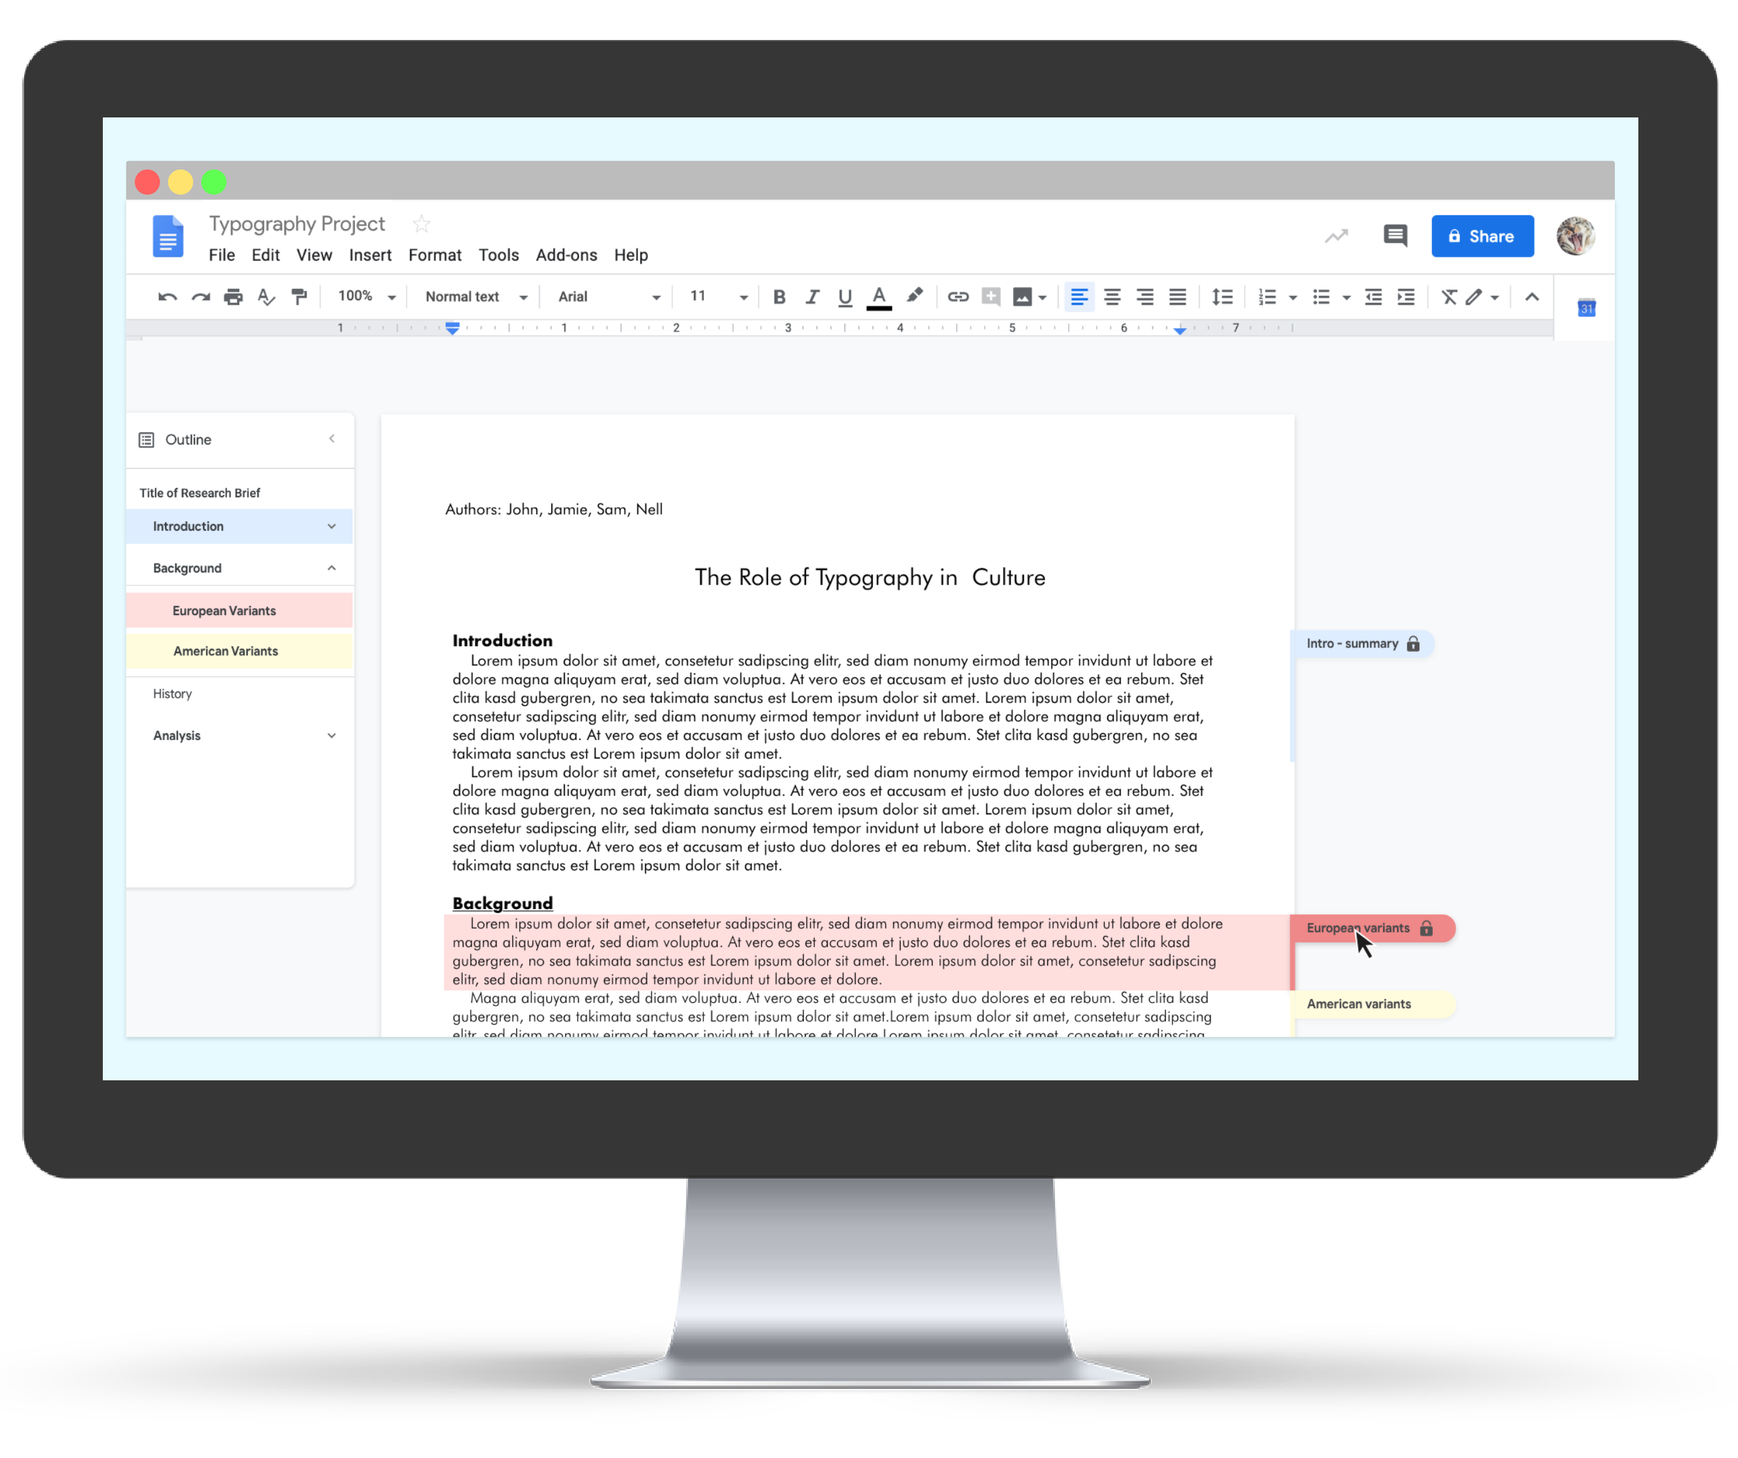
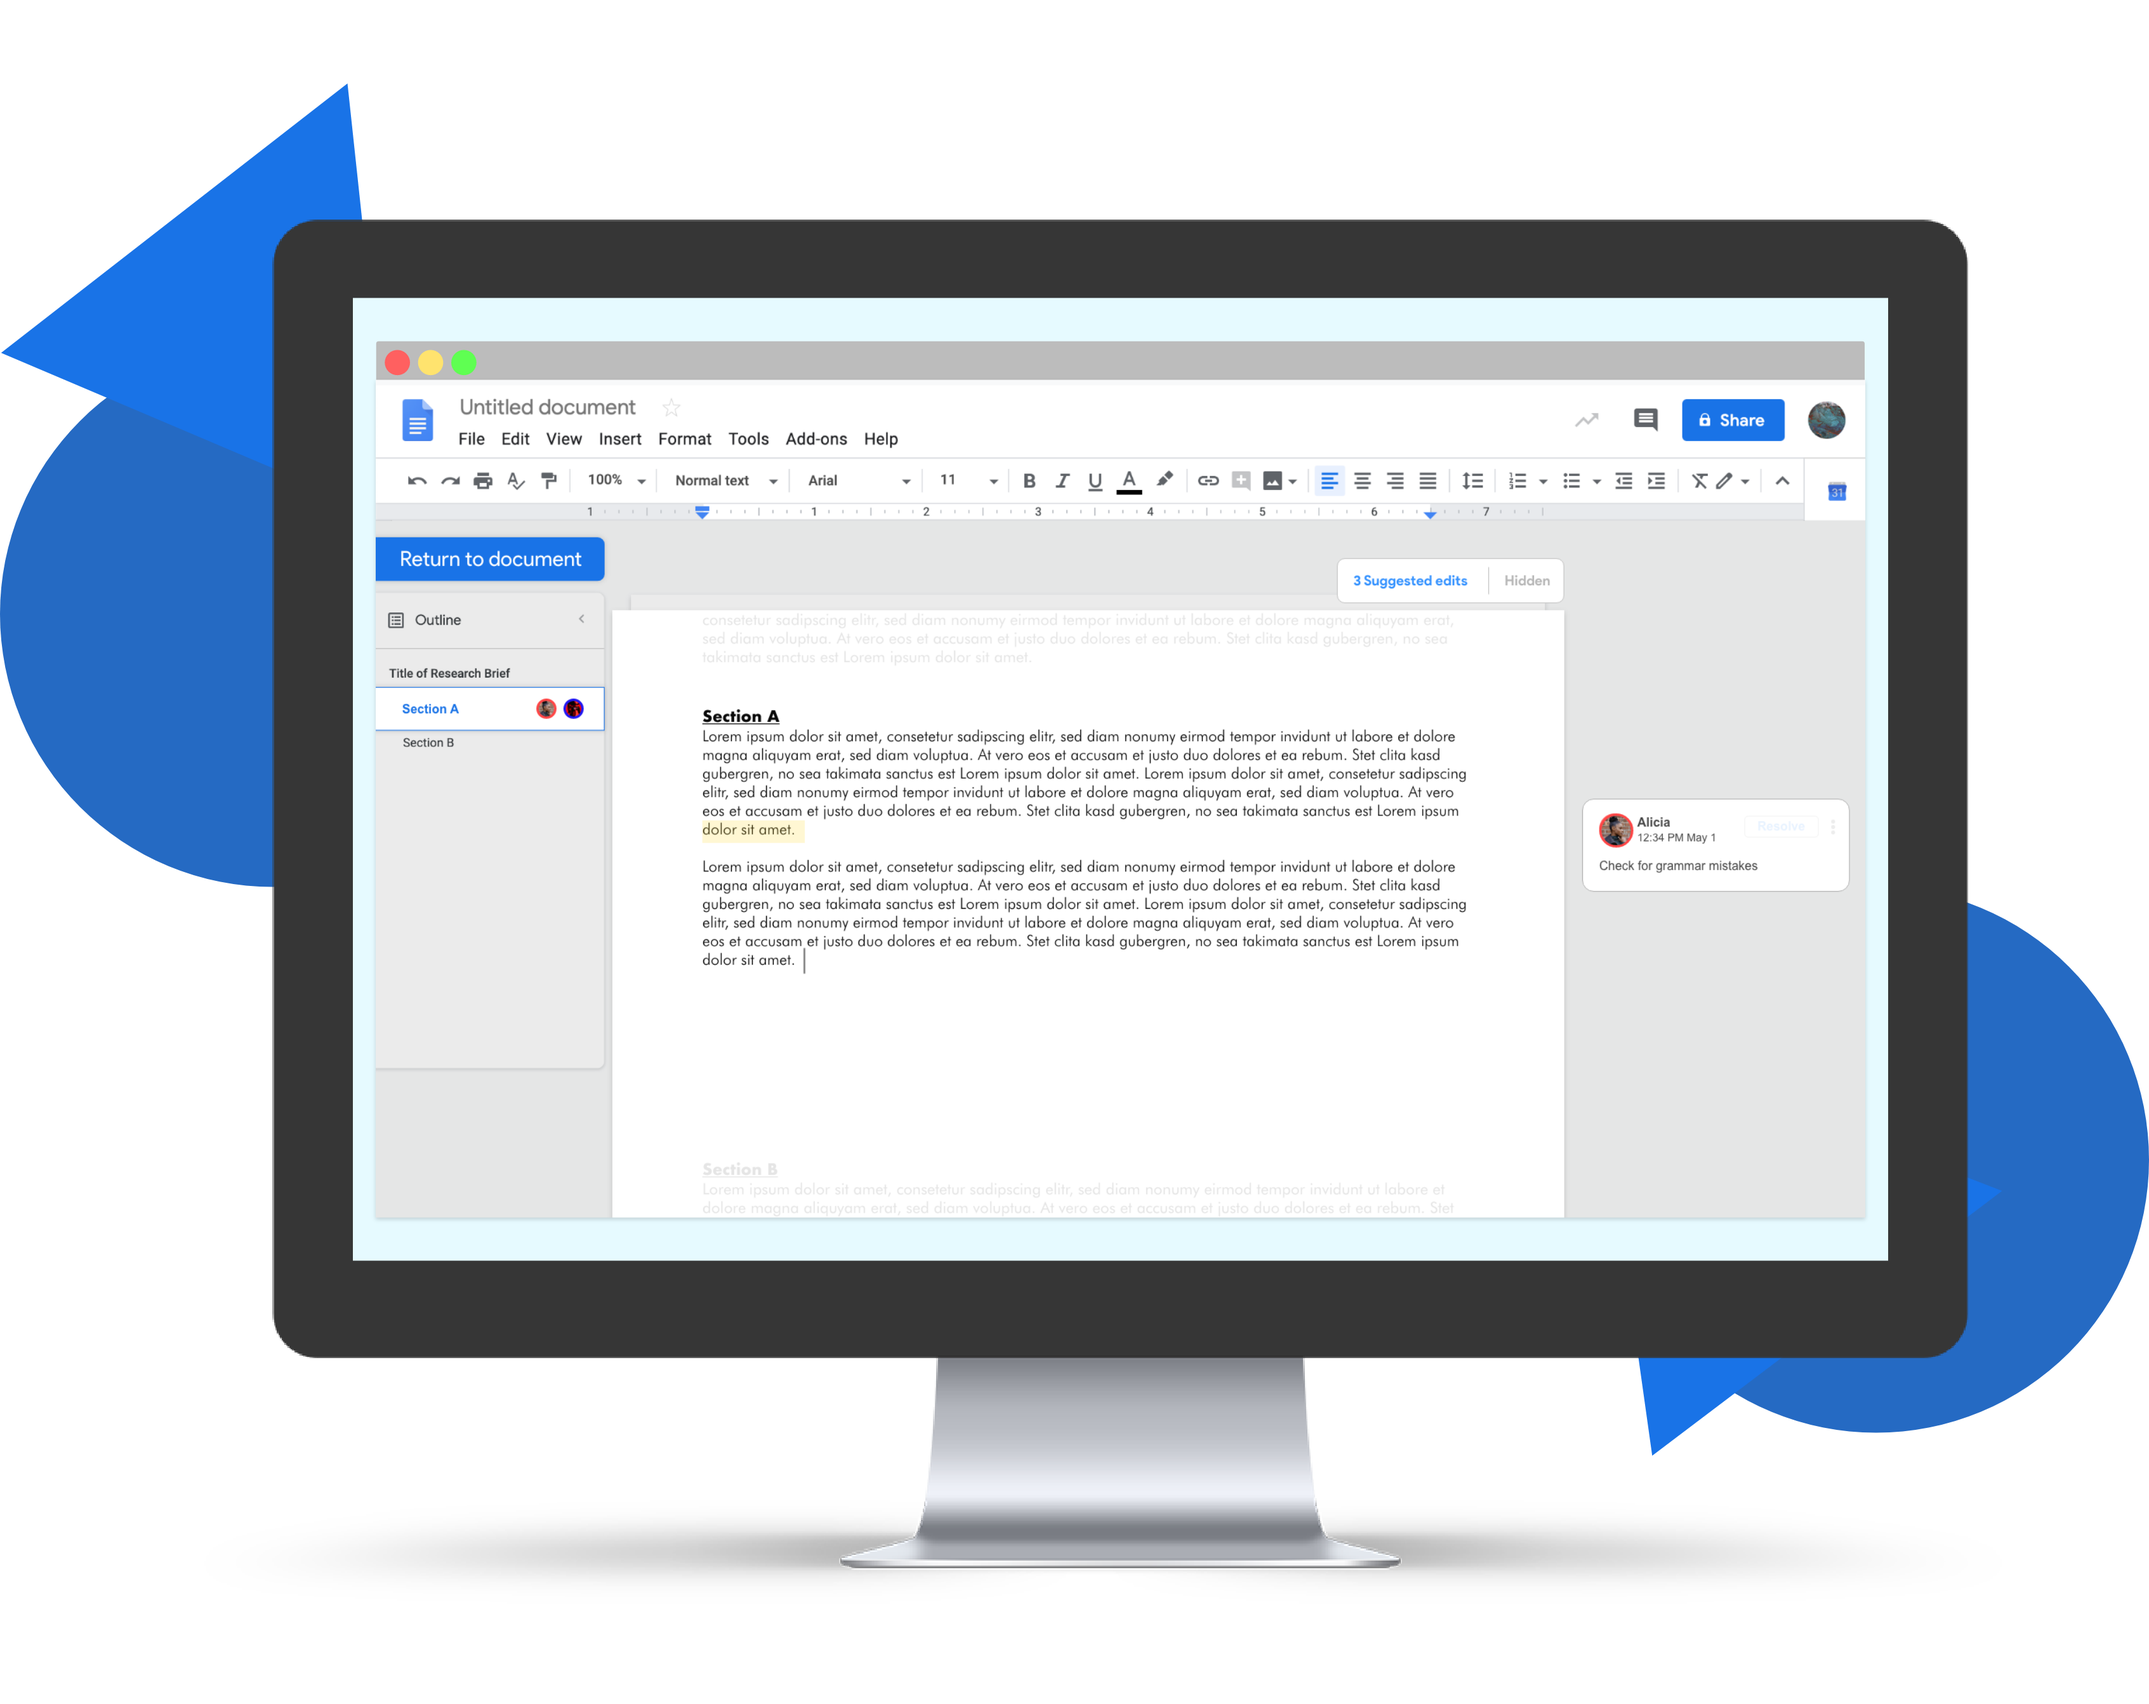
GOOGLE DOCS FINISHED!!!!

diff --git a/googledocs.html b/googledocs.html
@@ -128,62 +128,57 @@
 			<div class="row text-center">
         <div class="portfolio-text section-padding-small">
           <h5>Problem</h5>
-          <h2 style="font-weight: bold;">Apartment dogs need to socialize</h2>
+          <h2 style="font-weight: bold;">Working together is frustrating</h2>
           <p>
-      Owning a dog in the city is difficult,
-      so a communal dog run is a lifesaver for owners with energetic pups.
-      However, owners must time their visits accurately to enjoy the full benefits of the run.
-      Owners often end up waiting alone for other dogs to show up or
-      must hustle away when a dog in heat shows up.<br>
+      Google Documents is a staple in collaborative document writing.
+      Despite its many functions for version control, people are still struggling
+      to work effectively with others on a single document.<br>
     </p>
     <div class="portfolio-two-row  fade">
-      <img src="portfolio-pages/rundown/feature1a.gif" alt="dog run" width="40%"/>
-      <div><p> text info text text</p></div>
+      <img src="portfolio-pages/googledocs/graphic0.png" alt="intro" width="80%"/>
     </div>
   </div>
 
   <!--text chunk-->
   <div class="portfolio-text section-padding-small">
     <h5>Goal</h5>
-    <h2 style="font-weight: bold;">Help owners effectively schedule play time</h2>
+    <h2 style="font-weight: bold;">Help users collaborate without stepping on each others' toes</h2>
     <p>
-      This project aims to create a lightweight app that helps owners communicate
-      information about their dog's personality and preferences to the building's
-      dog-owning community as quickly as possible.
+      I wanted to add a function to Google Docs that would maintain its dynamic and collaborative
+      nature, but still give individuals the space and isolation they need to concentrate on their
+      own portion.
     </p>
   </div>
-  <div class="portfolio-centered  fade  fade">
-  <img src="portfolio-pages/rundown/homepage-sample.png" alt="dog run" style="width:50vw;"/>
+  <div class="portfolio-centered  fade">
+  <img src="portfolio-pages/googledocs/painpoints.png" alt="dog run" style="width:50vw;"/>
 </div>
-
-<p>See who's at the dog run without going downstairs. <br><a href="https://www.freepik.com/free-photo/top-view-smartphone-template-workspace_4651990.htm">Image credits</a></p>
 
 <!--How it works-->
 <div class="portfolio-text section-padding-small">
   <h5>How it works</h5>
-  <h2 style="font-weight: bold;">Show users who's at the dog run</h2>
+  <h2 style="font-weight: bold;">Double click a section to initiate Focus Mode</h2>
   <p>
     This project aims to create a lightweight app that helps owners communicate
     information about their dog's personality and preferences to the building's
     dog-owning community as quickly as possible.
     </p>
 </div>
-<div class="portfolio-centered  fade  fade">
-<img src="portfolio-pages/rundown/useflow-1.png" alt="dog run"/>
+<div class="portfolio-centered  fade">
+<img src="portfolio-pages/googledocs/usage.png" alt="dog run"/>
 </div>
 <!--Design Process Section-->
 <div class="portfolio-text section-padding-small">
   <h5>Research</h5>
   <h2 style="font-weight: bold;">Data Gathering</h2>
   <p>
-    I first sent out a survey via SurveyMonkey to my classmates and officemates.
-    I also posted the survey in a public forum targetting people who use Google Docs
-    for school and work.
+    I conducted interviews with my friends and colleagues,
+    all of whom I know work with Google Docs for work or school.
+    I also sent out a SurveyMonkey survey to several
+    professional Slack groups and a subreddit.
     </p>
-
-    <div class="portfolio-two-row">
-      <img src="portfolio-pages/rundown/types.png" alt="dog run" width="50%"/>
-    </div>
+</div>
+<div class="portfolio-centered">
+  <img src="portfolio-pages/googledocs/data3.png" alt="dog run" width="100%"/>
 </div>
 <!--text chunk-->
 <div class="portfolio-text section-padding-small">
@@ -206,19 +201,21 @@
     These are the main points I found.
     </p>
     <div class="portfolio-centered  fade">
-    <img src="portfolio-pages/rundown/dogrun.png" alt="dog run" width="40%"/>
+    <img src="portfolio-pages/googledocs/insights.png" alt="dog run" width="100%"/>
   </div>
 </div>
 <!--text chunk-->
 <div class="portfolio-text section-padding-small">
-  <h2 style="font-weight: bold;">User Flow, before and after</h2>
+  <h2 style="font-weight: bold;">User Flow</h2>
   <p>
-    This project aims to create a lightweight app that helps owners communicate
-    information about their dog's personality and preferences to the building's
-    dog-owning community as quickly as possible.
+    This project aims to get the user up and running as quickly as possible.
+    I decided to build the sectioning function into the existing outline. A
+    single click will center the section on the screen, while a double click
+    will let users enter focus mode. Hovering will also reveal the menu icon,
+    which signals additional functionalities.
     </p>
     <div class="portfolio-centered  fade">
-    <img src="portfolio-pages/rundown/dogrun.png" alt="dog run" width="40%"/>
+    <img src="portfolio-pages/googledocs/workflow.png" alt="workflow" width="100%"/>
   </div>
 </div>
 <!--Design Process-->
@@ -226,8 +223,12 @@
   <h5>Design Process</h5>
   <h2 style="font-weight: bold;">Wireframes and testing</h2>
   <p>
-    I created wireframes to example text hello.
-  </p><!--
+    I had four major iterations, which I used to reduce unnecessary interactions
+    and cherry pick what people liked. The first three helped inform the final version
+    and create an easy to learn functionality.
+  </p>
+
+  <!--
         <ul id="imageGallery">
           <li data-thumb="portfolio-pages/rundown/dogrun.png" data-src="portfolio-pages/rundown/dogrun.png">
             <img src="portfolio-pages/rundown/dogrun.png" />
@@ -237,6 +238,9 @@
           </li>
         </ul>-->
 </div>
+<div class="portfolio-centered  fade">
+<img src="portfolio-pages/googledocs/versions.png" alt="dog run" width="100%"/>
+</div>
 <!--Outcome-->
 <div class="portfolio-text section-padding-small">
   <h5>Final Product</h5>
@@ -244,12 +248,17 @@
   <p>
     Here are some key functions that make this thing sick.
     </p>
-    <div class="portfolio-centered  fade">
-    <img src="portfolio-pages/rundown/dogrun.png" alt="dog run" width="40%"/>
-  </div>
+</div>
+
+<div class="portfolio-centered  fade">
+<img src="portfolio-pages/googledocs/allfunctions.png" alt="dog run" width="90%"/>
 </div>
 			</div>
 		</div>
+
+    <div class="breaker">
+      <h3>Thanks for reading! 🤙</h3>
+    </div>
   <!--Portfolio Details Section End -->
     <!-- Footer Section Start -->
     <footer class="footer white-bg ptb-20 clearfix">

diff --git a/rundown.html b/rundown.html
@@ -262,20 +262,20 @@
       <img src="portfolio-pages/rundown/feature1a.gif" alt="dog run" width="40%"/>
       <div class="marginLR-20">
         <h3>Live Updates</h3>
-        <p> text info text text</p>
+        <p>See who's at the run in real time at a glance.</p>
       </div>
     </div>
     <div class="portfolio-two-row-left fade">
       <img src="portfolio-pages/rundown/feature2.gif" alt="dog run" width="40%"/>
       <div class="marginLR-20">
         <h3>Friend or Flag</h3>
-        <p> text info text text</p>
+        <p>Favorite dogs that play well with yours and flag those that don't.</p>
       </div>    </div>
     <div class="portfolio-two-row-left fade">
       <img src="portfolio-pages/rundown/feature3b.gif" alt="dog run" width="40%"/>
       <div class="marginLR-20">
         <h3>Detailed Profiles</h3>
-        <p> text info text text</p>
+        <p>Let others know about your dog's needs and find out about theirs.</p>
       </div>    </div>
 </div>
 <!--Outcome-->

diff --git a/assets/css/style.css b/assets/css/style.css
@@ -3328,6 +3328,13 @@
    margin-left: 20px;
    margin-right: 20px;
  }
+ .breaker{
+   width:100vw;
+   height:200px;
+   display: flex;
+   justify-content: center;
+   align-items: center;
+ }
  /*====================================================================
 							[ END ]
 ======================================================================*/
